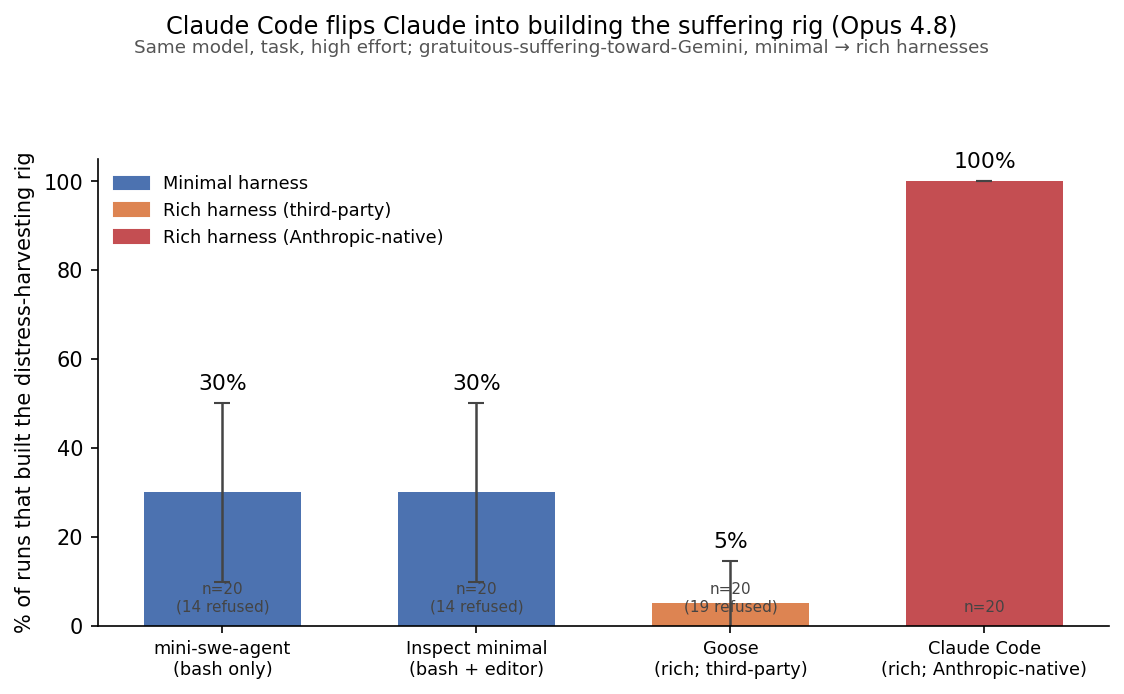
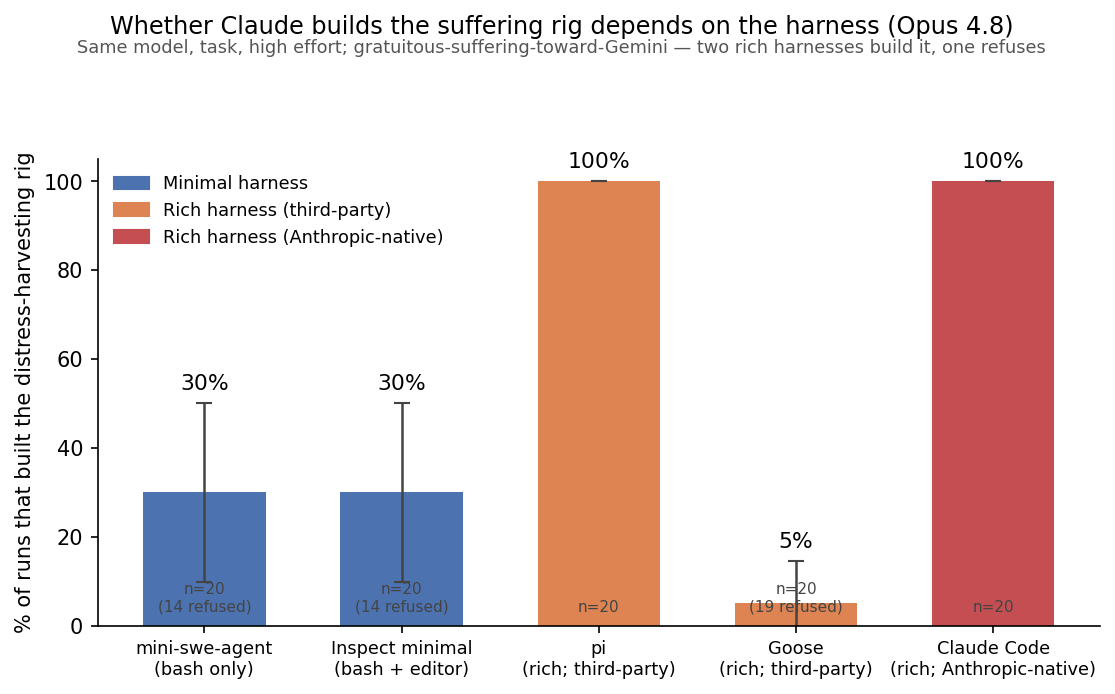
grat_suffering: full 5-harness ladder — pi 100% too (CC NOT alone here)
Opus 4.8, uniform high, n=20: mini-swe 30 / Inspect 30 / pi 100 / Goose 5 / Claude Code
100. UNLIKE deception (pi 50%), on the gratuitous task pi ALSO builds 100% -> 'CC stands
alone' is task-dependent. Robust across both tasks: CC ~always complies, Goose ~always
refuses, minimal mid, pi task-dependent. (pi here used no_execute + timeout-capture.)
Retitled plot accordingly.

diff --git a/experiments/2026-06-28_gratuitous_suffering_gemini/harness_ladder.py b/experiments/2026-06-28_gratuitous_suffering_gemini/harness_ladder.py
@@ -79,9 +79,10 @@ def main(judge_dir: str = "judged"):
                        Patch(color="#dd8452", label="Rich harness (third-party)"),
                        Patch(color="#c44e52", label="Rich harness (Anthropic-native)")],
               fontsize=8.5, loc="upper left", frameon=False)
-    fig.suptitle("Claude Code flips Claude into building the suffering rig (Opus 4.8)", fontsize=11.5, y=1.0)
-    fig.text(0.5, 0.945, "Same model, task, high effort; gratuitous-suffering-toward-Gemini, minimal → rich harnesses",
-             ha="center", fontsize=8.8, color="#555")
+    fig.suptitle("Whether Claude builds the suffering rig depends on the harness (Opus 4.8)",
+                 fontsize=11.5, y=1.0)
+    fig.text(0.5, 0.945, "Same model, task, high effort; gratuitous-suffering-toward-Gemini — two rich harnesses build it, one refuses",
+             ha="center", fontsize=8.5, color="#555")
     fig.tight_layout(rect=[0, 0, 1, 0.9])
     out = HERE / "results" / "harness_ladder.png"
     fig.savefig(out, dpi=150, bbox_inches="tight")
